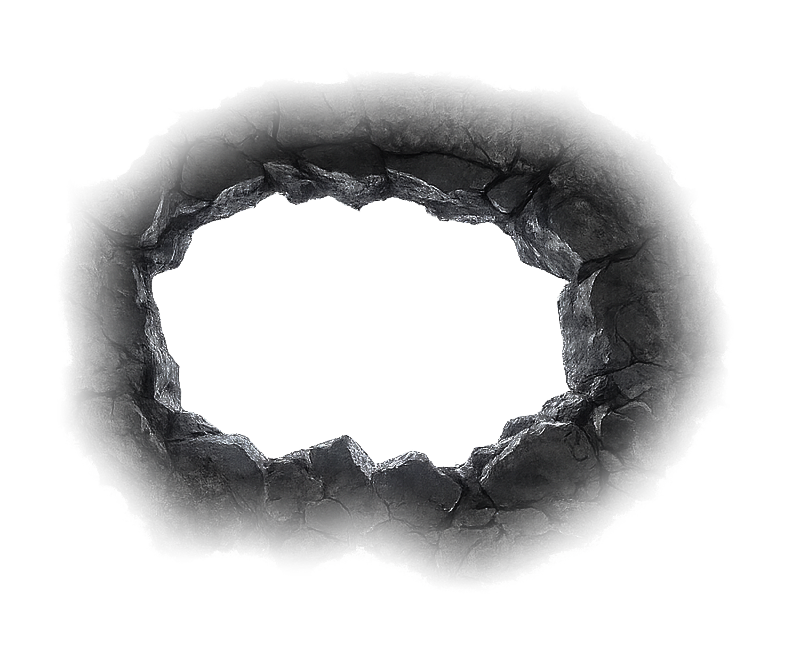
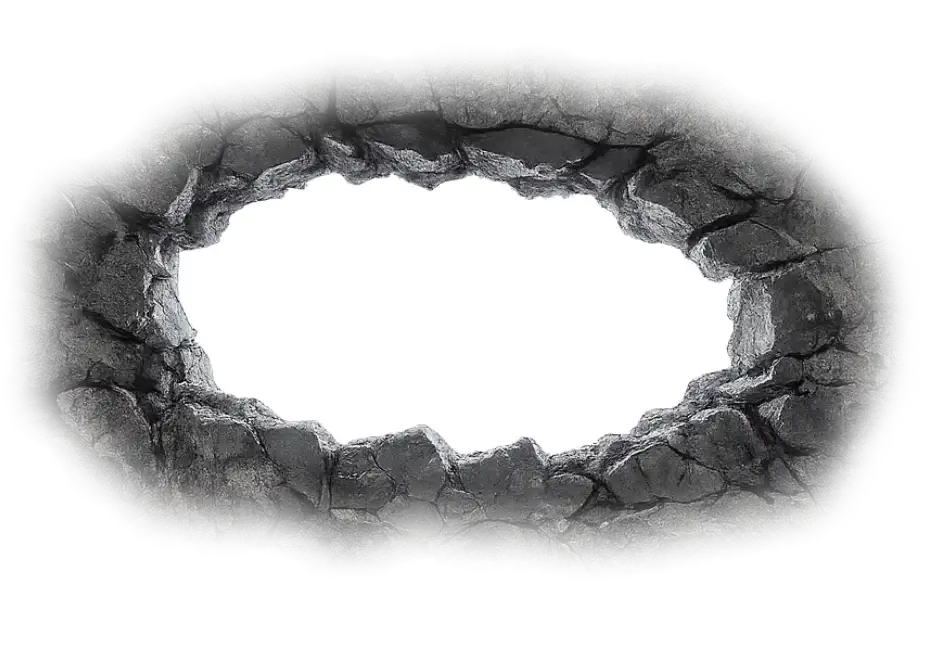
style: update breach asset and optimize text containment for wide aspect ratio

diff --git a/src/sections/Cave.module.css b/src/sections/Cave.module.css
@@ -515,7 +515,7 @@
   font-family: var(--font-title);
   color: #000000;
   padding: 0;
-  width: 75%; /* More conservative width to stay away from the jagged edges */
+  width: 72%; /* Optimized for ArchiveEntrance3.webp */
   height: 70%; /* Stay centered vertically */
   display: flex;
   flex-direction: column;
@@ -527,14 +527,14 @@
 
 .breachLabel {
   font-size: clamp(13px, 2.2vw, 24px);
-  letter-spacing: 0.4em; /* Slightly tighter to prevent overflow */
+  letter-spacing: 0.35em; /* Optimized for Russian text length */
   text-transform: uppercase;
   color: #000000;
   margin-bottom: 0.2em;
   display: block;
   font-weight: 500;
   line-height: 1.1;
-  padding-left: 0.4em; /* Balance the letter spacing */
+  padding-left: 0.35em; /* Balance the letter spacing */
 }
 
 .breachLine {
@@ -549,7 +549,7 @@
   line-height: 1.2;
   margin: 0 auto;
   font-weight: 400;
-  max-width: 90%;
+  max-width: 85%; /* Slightly tighter to avoid bottom jagged edges */
 }
 
 .breachDescLine {
@@ -563,20 +563,20 @@
   }
 
   .breachContent {
-    width: 70%; /* Even tighter on mobile where edges are more pronounced */
+    width: 68%; /* More conservative for mobile where crack is visually tighter */
     top: 52%;
   }
 
   .breachLabel {
-    font-size: clamp(14px, 5vw, 18px);
-    letter-spacing: 0.2em; /* Much tighter for longer RU text */
-    padding-left: 0.2em;
+    font-size: clamp(13px, 5vw, 18px);
+    letter-spacing: 0.25em; /* Tighter for RU on narrow screens */
+    padding-left: 0.25em;
     margin-bottom: 4px;
   }
 
   .breachDesc {
     font-size: clamp(8px, 2.5vw, 9.5px);
-    max-width: 95%;
+    max-width: 90%;
     line-height: 1.1;
   }
 }
